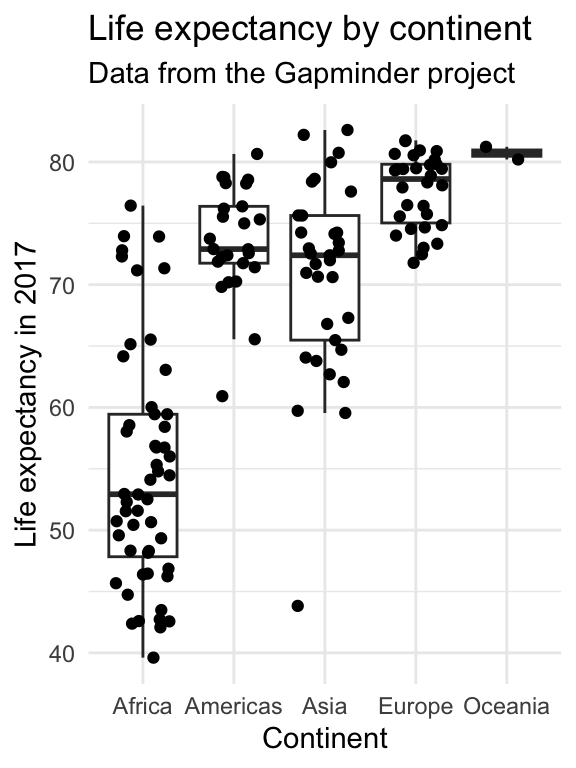
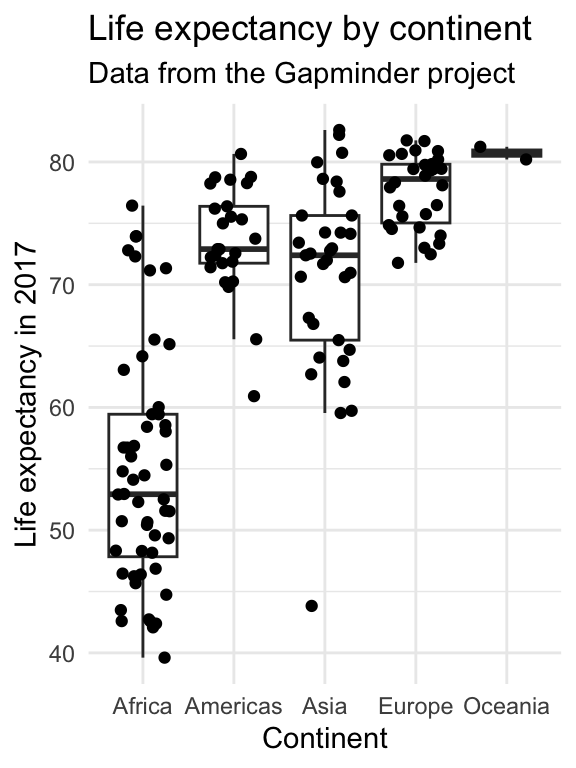
Adding office hours times

diff --git a/docs/modules/module1/02_principles/02_principles.html b/docs/modules/module1/02_principles/02_principles.html
@@ -155,6 +155,10 @@ Jessica Cooperstone, Ph.D.
 <section id="questions-from-last-week" class="slide level2 center_title">
 <h2>Questions from last week?</h2>
 </section>
+<section id="office-hours" class="slide level2">
+<h2>Office hours</h2>
+<p>Mondays, 4-5pm, Pelotonia Research Center or via <a href="www.go.osu.edu/dataviz-zoom">Zoom</a></p>
+</section>
 <section id="the-data-visualization-process" class="slide level2 center_title">
 <h2>The data visualization process</h2>
 
